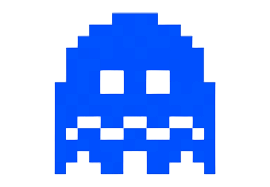
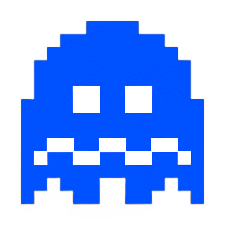
исправил все баги и сделал так, чтобы призраки двигались медленно в лабиринте

Changed region(s): [[0.0933, 0.0535, 0.9333, 0.9358], [0.5289, 0.3743, 0.6844, 0.508], [0.3111, 0.3743, 0.4667, 0.508]]

diff --git a/Enemies.py b/Enemies.py
@@ -6,16 +6,15 @@ import random
 class Ghost(Entity):
     def __init__(self, cell, cells, screen, image, color_type, retreat_cell, ghost_in_house, pac_man, limit_point):
         super().__init__(screen, cell, cells)
-        image_ghost = pg.image.load(image)
-        image_scared_ghost = pg.image.load(scared_ghost)
-        image_ghost_eyes = pg.image.load(ghost_eyes)
-        self.size = (55, 45)
-        self.base_image = pg.transform.scale(image_ghost, self.size) # основное изображение призрака
-        self.scared_image = pg.transform.scale(image_scared_ghost, self.size)  # изображение испуганного призрака
-        self.eyes_ghost = pg.transform.scale(image_ghost_eyes, self.size) # изображение глаз призрака
+        self.base_image = pg.transform.scale(pg.image.load(image), self.size) # основное изображение призрака
+        self.scared_ghost = pg.transform.scale(pg.image.load(scared_ghost), self.size)  # изображение испуганного призрака
+        self.white_ghost = pg.transform.scale(pg.image.load(white_ghost), self.size)  # изображение белого от испуга призрака
+        self.ghost_eyes = pg.transform.scale(pg.image.load(ghost_eyes), self.size) # изображение глаз призрака
+        self.list_scare_imgs = [self.scared_ghost, self.white_ghost]   # изображения испуганного призрака
+        self.start_time_img = 0    # время, когда у спрайта меняется изображение
+        self.image = self.base_image  # текущее изибражение
         self.activity = False
         self.point_limit = limit_point    # число, которое должен набрать игрок, чтобы запустить призраков
-        self.image = self.base_image    # текущее изибражение
         self.start_cords = cell.cord    # начальное положение призрака
         self.ghost_in_house = ghost_in_house    # равен True, если призрак в доме
         self.color_type = color_type    # тип цвета призрака
@@ -25,6 +24,8 @@ class Ghost(Entity):
         self.mode_now = "run"
         self.mode_first = "attack"
         self.times_modes = [7, 20, 7, 20, 5, 20, 5]
+        self.start_time_mode = 0
+        self.time_mode_scare = 5 # время действия режима испуга
         self.index_mode = 0
         self.kill_ghost = False
 
@@ -37,13 +38,13 @@ class Ghost(Entity):
             self.target = self.retreat_cell
             self.ghost_in_house = False
             self.start_cords = start_points[0]
+            self.start_time_mode = pg.time.get_ticks()
         else:
             self.target = start_points[0]
             self.speed = 1
             self.create_future_move(self.target, self.cell.cord)
         self.update_move()
         self.move()
-        self.start_time = pg.time.get_ticks()
 
     def draw_enemy(self):
         self.draw(self.image)
@@ -63,7 +64,7 @@ class Ghost(Entity):
     def check_time(self):
         """Проверка времени действия текущего режима"""
         end_time = pg.time.get_ticks()
-        different = (end_time - self.start_time) / 1000
+        different = (end_time - self.start_time_mode) / 1000
 
         if self.mode_now != "scare" and self.index_mode < len(self.times_modes):
             time_mode = self.times_modes[self.index_mode]
@@ -78,32 +79,35 @@ class Ghost(Entity):
     def change_mode(self):
         """Изменяет режим у призрака"""
         if self.mode_now == "scare":
-            self.mode_now, self.mode_first = self.mode_first, self.mode_now
             self.scare_mode_off()
-        else:
+
+        elif self.mode_now != "scare" and not self.ghost_in_house:
             self.mode_now, self.mode_first = self.mode_first, self.mode_now
             self.move_future = [self.move_now[0] * (-1), self.move_now[1] * (-1)]
 
         if self.mode_now == "run":
             self.target = self.retreat_cell
 
-        self.start_time = pg.time.get_ticks()
+        self.start_time_mode = pg.time.get_ticks()
 
     def scare_mode_on(self):
         """Режим испуга призрака"""
         if self.mode_now != "scare":
-            self.image = self.scared_image
+            self.image = self.scared_ghost
             self.mode_first = self.mode_now
             self.mode_now = "scare"
-            self.speed = 1.5
+            self.speed = 1.7
             self.update_move()
             self.move_future = [self.move_now[0] * (-1), self.move_now[1] * (-1)]
-        self.start_time = pg.time.get_ticks()
+
+        self.start_time_mode = pg.time.get_ticks()
 
     def scare_mode_off(self):
+        self.mode_now, self.mode_first = self.mode_first, self.mode_now
         self.image = self.base_image
-        self.speed = 2.5
-        self.update_move()
+        if not self.ghost_in_house:
+            self.speed = 2.5
+            self.update_move()
         if self.mode_now == "run":
             self.mode_first = "attack"
         else:
@@ -111,7 +115,7 @@ class Ghost(Entity):
 
     def kill_mode(self):
         """Режим, который срабатывает, когда призрака съедает пак ман"""
-        self.image = self.eyes_ghost # меняем изображение спрайта призрака
+        self.image = self.ghost_eyes # меняем изображение спрайта призрака
         self.target = start_points[1]
         self.kill_ghost = True
         self.speed = 3.5
@@ -171,8 +175,8 @@ class Ghost(Entity):
             self.target = start_points[2]
             self.move_future = [-self.speed, 0]
         elif self.future_cell.cord == start_points[2]:
+            self.change_mode()
             self.ghost_in_house = False
-            self.target = self.retreat_cell
             self.speed = 2.5
             self.update_move()
             self.move_future = [-self.speed, 0]
@@ -190,6 +194,23 @@ class Ghost(Entity):
             self.update_move()
             self.create_future_move(self.target, self.cell.cord)
 
+    # ДВИЖЕНИЕ ПРИЗРАКА В ТУНЕЛЕ
+
+    def ghost_in_tunnel(self):
+        """Изменяет скорость у призрака, если он в тунеле"""
+        if self.future_cell is not None:
+            if self.future_cell.type == 2:
+                self.speed = 1.4
+            elif self.future_cell.type == 1:
+                if self.mode_now != "scare":
+                    self.speed = 2.5
+                else:
+                    self.speed = 1.7
+        else:
+            self.speed = 1.4
+        self.update_move()
+        self.move_future = [sing_number(self.move_future[0]) * self.speed, sing_number(self.move_future[1]) * self.speed]
+
     # ФУНКЦИИ, ИЗМЕНЯЮЩИЕ НАПРАВЛЕНИЕ У ПРИЗРАКА, КОГДА ОН ДВИЖИТСЯ ПО ЛАБИРИНТУ
 
     def check_future_cell(self):
@@ -206,17 +227,15 @@ class Ghost(Entity):
 
     def turn_other_direction(self):
         "Изменяет направление призрака, если впереди него стена"
-        try:
+        if self.future_cell is not None:
             next_cell = self.get_next_cell()
-            if not next_cell.type:
+            if next_cell is not None and not next_cell.type:
                 if not self.kill_ghost and self.check_time():
                     self.change_mode()
                     return
                 side_cells_cord = self.get_side_cells() # получаем клетки, расположенные по бокам от целевой
-                cells = self.filter_cells(side_cells_cord) # получаем клеки, по которым призрак сможет идти 
+                cells = self.filter_cells(side_cells_cord) # получаем клеки, по которым призрак сможет идти
                 self.create_future_move(cells[0].cord, self.future_cell.cord)
-        except AttributeError:
-            pass
 
     def select_direction(self):
         """Выбирает в какую сторону лабиринта пойти призраку"""

diff --git a/Game_core.py b/Game_core.py
@@ -46,11 +46,22 @@ class Game:
     def update_ghosts(self):
         for enemy in self.enemies:
             if enemy.activity:
+                if not enemy.kill_ghost and (enemy.cell.cord == (5, 14) or enemy.cell.cord == (22, 14) or (enemy.future_cell is None and enemy.cell.type == 2)):
+                    enemy.ghost_in_tunnel()
                 self.pac_man.interaction(self.restart, self.lives, enemy) # проверяем взаимодействие пакмана с призраком
                 if enemy.mode_now == "attack":
                     if enemy.color_type == "red":
                         self.cord_red = enemy.cell.cord
                     enemy.count_target_ghosts(self.cord_red)
+                elif enemy.mode_now == "scare" and not enemy.kill_ghost and not enemy.ghost_in_house:
+                    time_now = pg.time.get_ticks() # получаем текущее время
+                    action_time_mode = (time_now - enemy.start_time_mode) / 1000 # находим время действия режима
+                    if (enemy.time_mode_scare - action_time_mode) <= 2 and (time_now / 1000 - enemy.start_time_img) >= 0.5:
+                        # меняем изображение синего призрака на изображение белого (или наоборот)
+                        enemy.list_scare_imgs = enemy.list_scare_imgs[::-1]
+                        enemy.image = enemy.list_scare_imgs[0]
+                        enemy.start_time_img = time_now / 1000
+
                 elif enemy.kill_ghost and enemy.future_cell is not None and enemy.future_cell.cord == enemy.target:
                     enemy.ghost_in_house = True
                     enemy.target = start_points[0]
@@ -62,7 +73,6 @@ class Game:
                     enemy.start_move()
                     enemy.activity = True
                     self.first_points = len(self.map.points)
-
 
     def restart(self, ask: int = 0):
         """

diff --git a/Setting.py b/Setting.py
@@ -9,7 +9,9 @@ yellow_ghost = os.path.join(images_folder, "jellow_ghost.png")
 pink_ghost = os.path.join(images_folder, "pink_ghost.png")
 red_ghost = os.path.join(images_folder, "red_ghost.png")
 scared_ghost = os.path.join(images_folder, "scared_ghost.png")
+white_ghost = os.path.join(images_folder, "white_ghost.png")
 ghost_eyes = os.path.join(images_folder, "ghost_eyes.png")
+
 
 # настройка призраков
 images_ghosts = (red_ghost, blue_ghost, pink_ghost, yellow_ghost)
